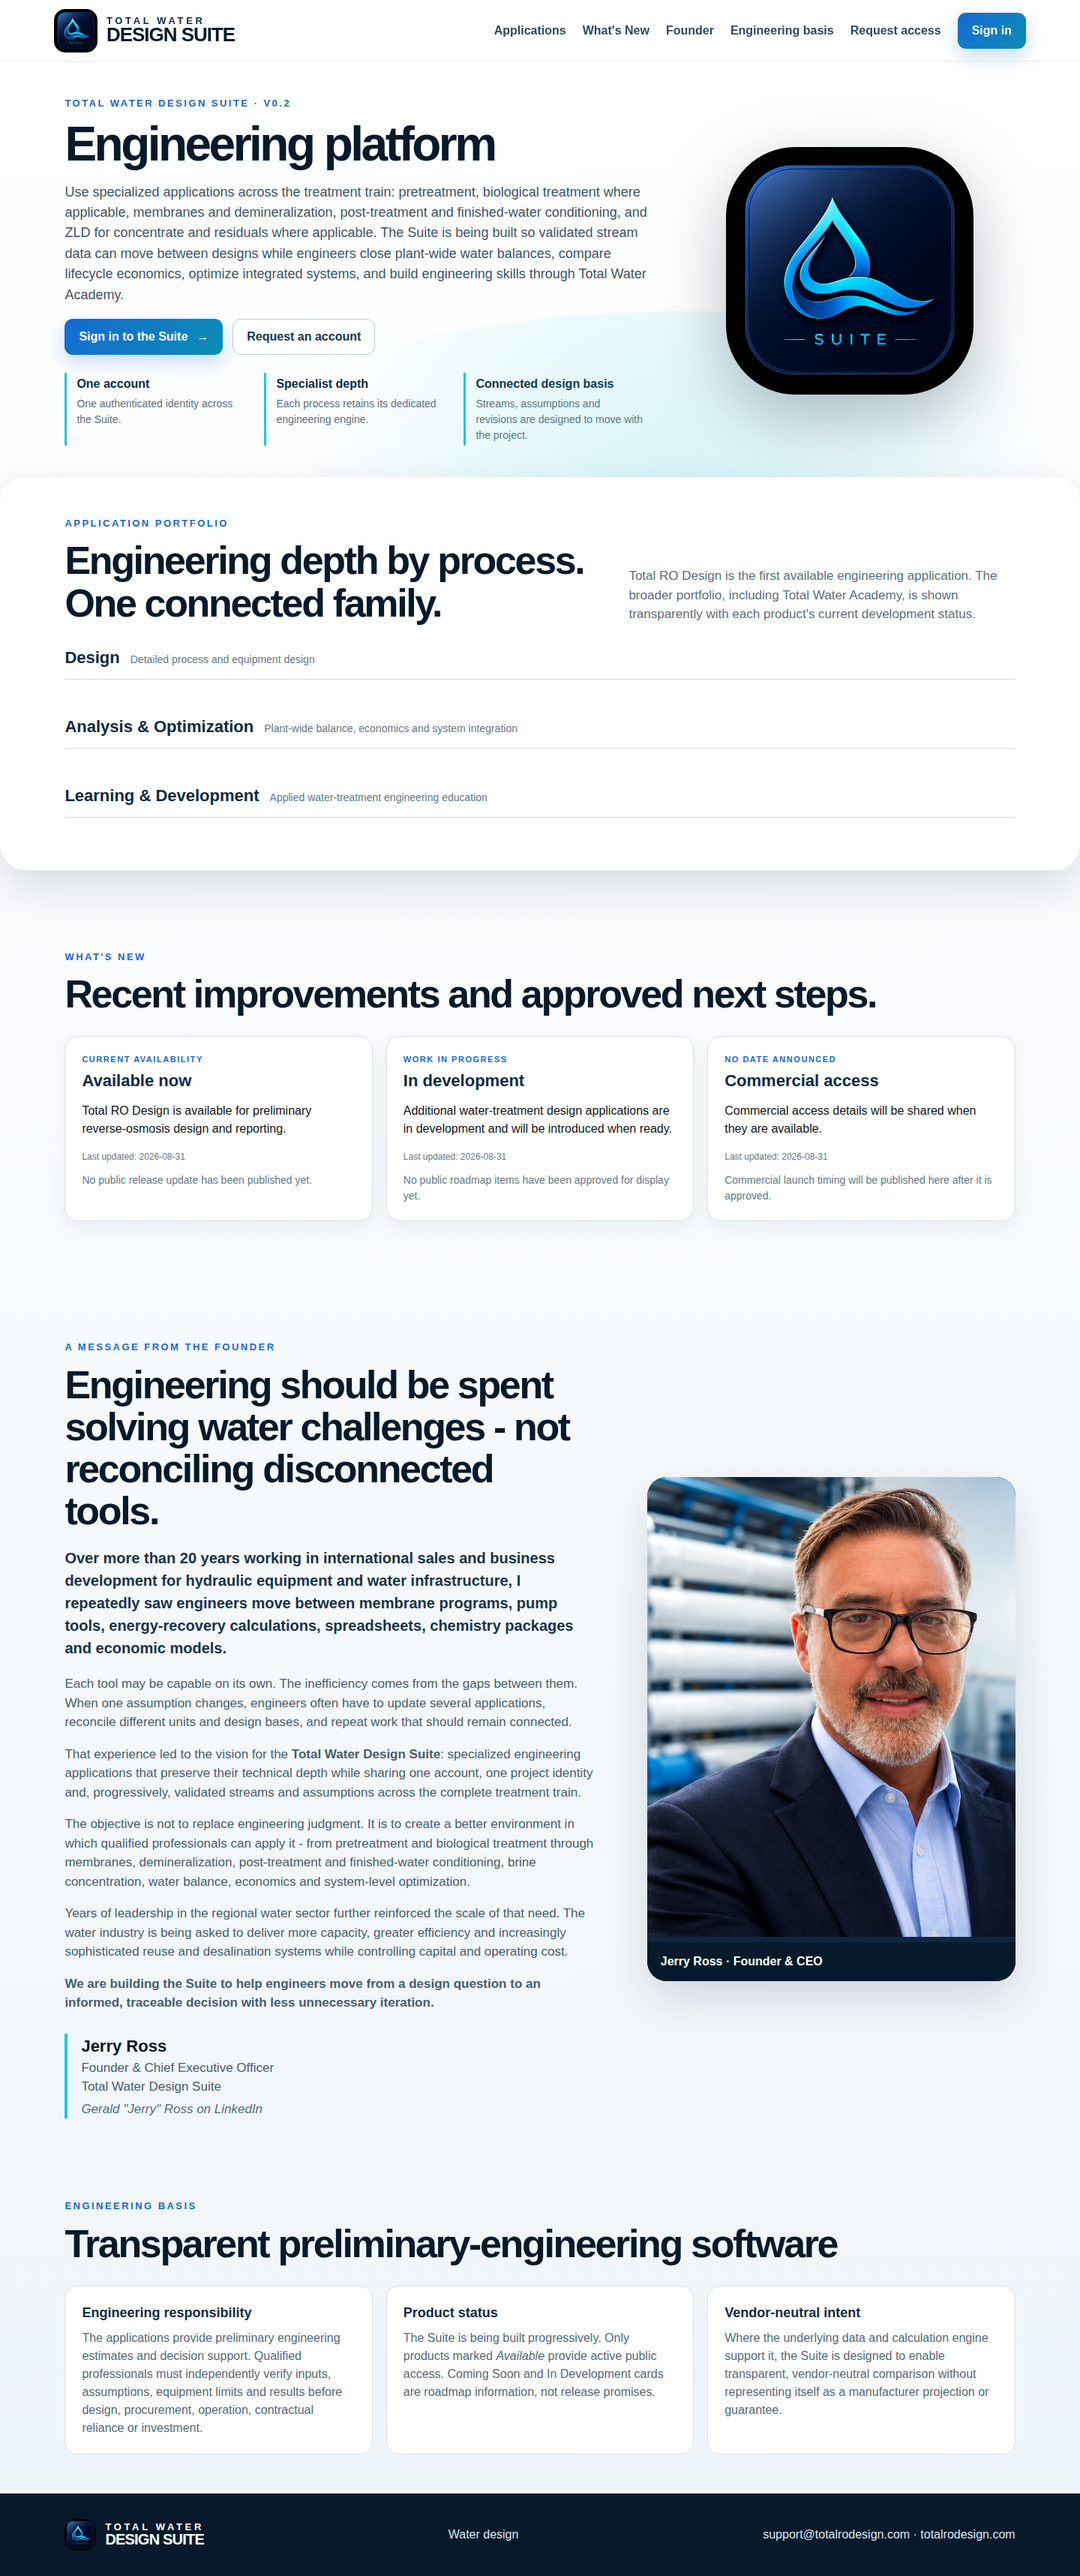
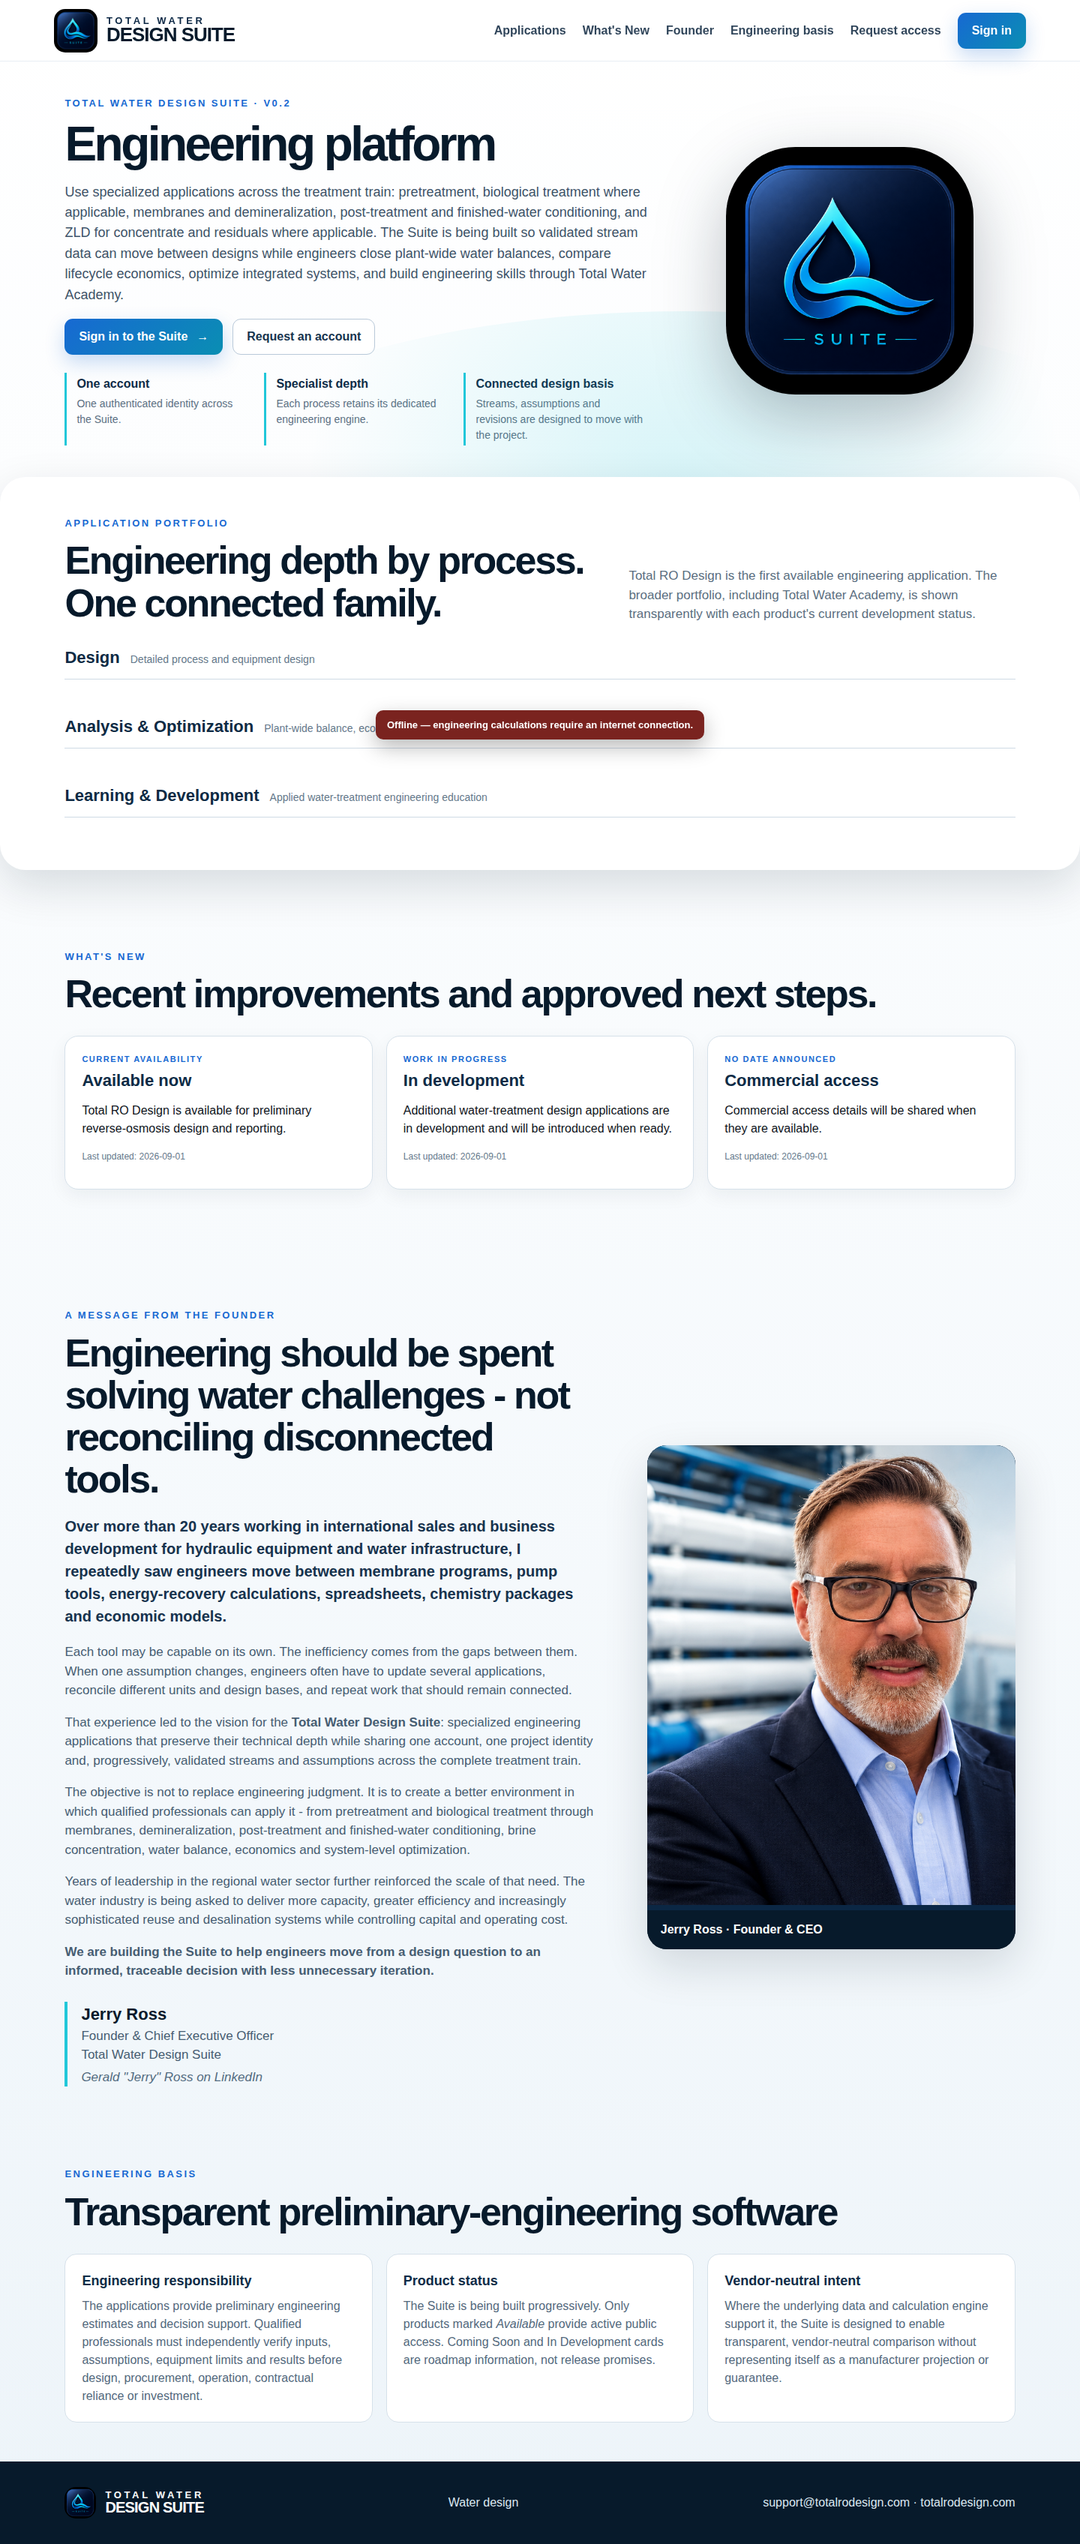
TOT-1041 suppress stale What's New placeholders

diff --git a/templates/suite_landing.html b/templates/suite_landing.html
@@ -116,7 +116,7 @@
             {% if release.summary %}<p>{{ release.summary }}</p>{% endif %}
             {% if release.highlights %}<ul>{% for item in release.highlights %}<li>{{ item }}</li>{% endfor %}</ul>{% endif %}
           </div>
-          {% else %}<p class="suite-whats-new-empty">No public release update has been published yet.</p>{% endfor %}
+          {% else %}{% if not card.get('public_ready') %}<p class="suite-whats-new-empty">No public release update has been published yet.</p>{% endif %}{% endfor %}
         </article>
 
         {% set card = whats_new.cards.get('roadmap', {}) %}
@@ -127,7 +127,7 @@
           <small class="suite-whats-new-date">Last updated: {{ card.get('updated_at').strftime('%Y-%m-%d') if card.get('updated_at') else 'Not published' }}</small>
           {% for item in whats_new.roadmap %}
           <div class="suite-whats-new-item"><strong>{{ item.title }}</strong>{% if item.application and item.application != 'suite' %}<small>{{ item.application|replace('_',' ')|title }}</small>{% endif %}<p>{{ item.summary }}</p></div>
-          {% else %}<p class="suite-whats-new-empty">No public roadmap items have been approved for display yet.</p>{% endfor %}
+          {% else %}{% if not card.get('public_ready') %}<p class="suite-whats-new-empty">No public roadmap items have been approved for display yet.</p>{% endif %}{% endfor %}
         </article>
 
         {% set card = whats_new.cards.get('commercial_launch', {}) %}
@@ -136,7 +136,7 @@
           <h3>{{ card.get('title', 'Commercial Launch') }}</h3>
           {% if card.get('public_ready') %}<p>{{ card.get('summary') }}</p>{% endif %}
           <small class="suite-whats-new-date">Last updated: {{ card.get('updated_at').strftime('%Y-%m-%d') if card.get('updated_at') else 'Not published' }}</small>
-          {% if whats_new.commercial_launch_window %}<p class="suite-launch-window">{{ whats_new.commercial_launch_window }}</p><p>This timing is an estimate and may be updated as validation and deployment progress.</p>{% else %}<p class="suite-whats-new-empty">Commercial launch timing will be published here after it is approved.</p>{% endif %}
+          {% if whats_new.commercial_launch_window %}<p class="suite-launch-window">{{ whats_new.commercial_launch_window }}</p><p>This timing is an estimate and may be updated as validation and deployment progress.</p>{% elif not card.get('public_ready') %}<p class="suite-whats-new-empty">Commercial launch timing will be published here after it is approved.</p>{% endif %}
         </article>
       </div>
     </section>

diff --git a/validation/TOT-557/browser_check.py b/validation/TOT-557/browser_check.py
@@ -42,6 +42,11 @@ COPY = {
         "No date announced",
     ),
 }
+STALE_PLACEHOLDERS = (
+    "No public release update has been published yet.",
+    "No public roadmap items have been approved for display yet.",
+    "Commercial launch timing will be published here after it is approved.",
+)
 
 
 def _port() -> int:
@@ -124,9 +129,17 @@ def main() -> None:
                         assert title in rendered
                         assert summary in rendered
                         rendered_cards.append(actual)
+                    visible_placeholders = [text for text in STALE_PLACEHOLDERS if text in rendered]
+                    assert not visible_placeholders, visible_placeholders
                     screenshot = EVIDENCE / f"home-{name}.png"
                     page.screenshot(path=str(screenshot), full_page=True)
-                    evidence["viewports"][name] = {"status": response.status, "cards": cards.count(), "card_copy": rendered_cards, "screenshot": screenshot.name}
+                    evidence["viewports"][name] = {
+                        "status": response.status,
+                        "cards": cards.count(),
+                        "card_copy": rendered_cards,
+                        "stale_placeholders_visible": visible_placeholders,
+                        "screenshot": screenshot.name,
+                    }
                     page.close()
                 browser.close()
         finally:

diff --git a/tests/test_suite_whats_new_workflow.py b/tests/test_suite_whats_new_workflow.py
@@ -29,6 +29,12 @@ PROPOSED_CARD_COPY = {
     ),
 }
 
+STALE_PLACEHOLDER_COPY = (
+    "No public release update has been published yet.",
+    "No public roadmap items have been approved for display yet.",
+    "Commercial launch timing will be published here after it is approved.",
+)
+
 
 @pytest.fixture()
 def communications_app(tmp_path, monkeypatch):
@@ -82,6 +88,8 @@ def test_empty_cards_are_safe_in_http_and_api_responses(communications_app):
     html = homepage.get_data(as_text=True)
     assert html.count("Last updated: Not published") == 3
     assert html.count("No approved update") == 3
+    for placeholder in STALE_PLACEHOLDER_COPY:
+        assert placeholder in html
 
     _login(client, admin_id)
     payload = client.get("/api/suite/whats-new").get_json()
@@ -134,6 +142,8 @@ def test_non_production_fixture_renders_exact_customer_safe_copy(communications_
         assert summary in html
     for _, _, release_label in PROPOSED_CARD_COPY.values():
         assert release_label in html
+    for placeholder in STALE_PLACEHOLDER_COPY:
+        assert placeholder not in html
     assert html.count("Last updated:") == 3
     assert "83a2733" not in html
     assert "New in Alpha" not in html
